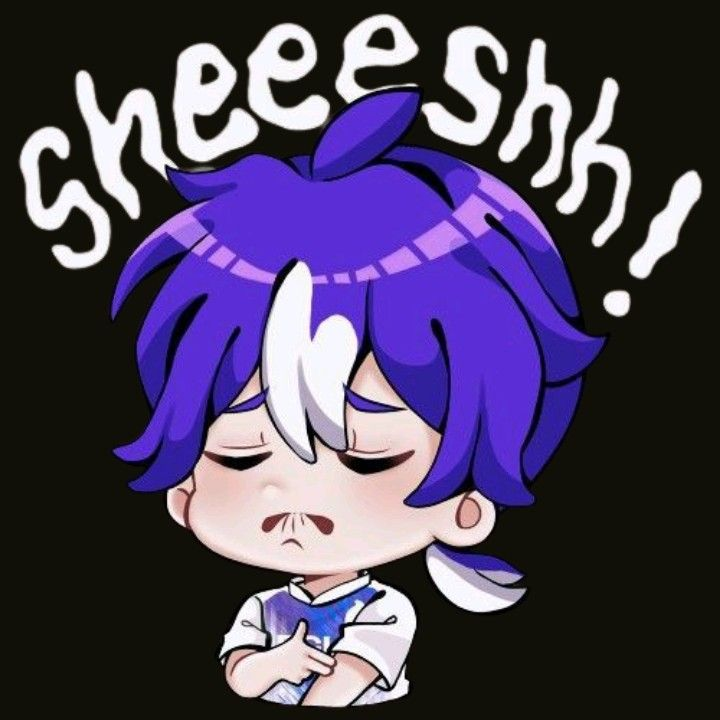
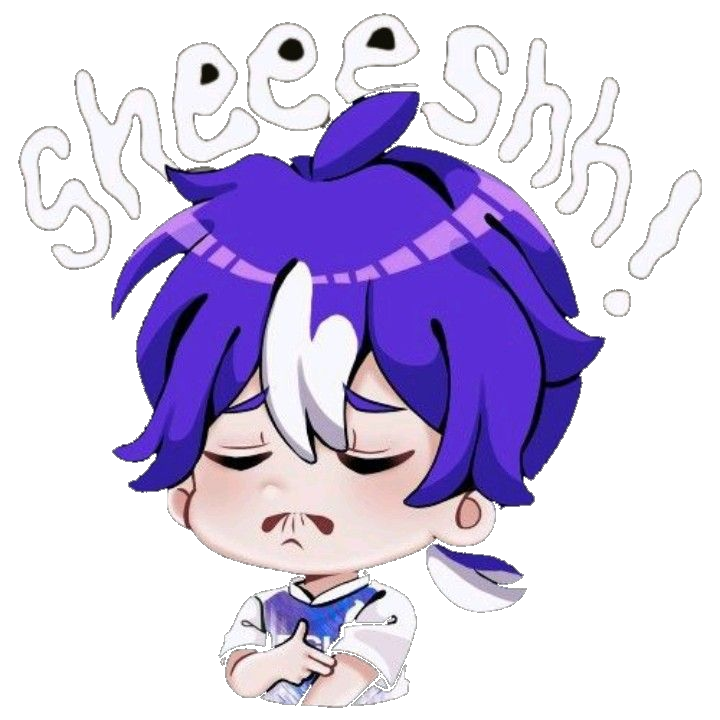
Add files via upload

diff --git a/src/main.jsx b/src/main.jsx
@@ -4,6 +4,7 @@ import './styles.css';
 import logo from './assets/logo.jfif';
 import avatar from './assets/avatar.jpg';
 import sheeeshhhEmote from './assets/sheeeshhh.png';
+import sheeeshhhSound from './assets/sheesh-mpl-echo-ph.mp3';
 import {dbList,dbInsert,dbUpdate,dbUpsert,dbDelete,supabaseConfig,supabase,checkSupabaseSetup} from './supabase';
 
 const DEFAULTS={admin:{name:'Bastaoang Jayson A',password:'webinternDEV'},hostPassword:'BSIT',userPassword:'CRT-NEUST-GSC'};
@@ -586,7 +587,12 @@ function Meeting({role,name,room,avatar,camera,mic,sharing,pinned,setCamera,setM
    }catch(e){console.error('Screen-share toggle failed:',e);resetScreenView();setToast?.(`Screen sharing could not start: ${e?.message || 'check browser permission.'}`);}
  };
  const playSheeeshhhSound=()=>{
-   try{const C=window.AudioContext||window.webkitAudioContext;if(!C)return;const ctx=new C();const osc=ctx.createOscillator();const gain=ctx.createGain();osc.type='triangle';osc.frequency.setValueAtTime(320,ctx.currentTime);osc.frequency.exponentialRampToValueAtTime(720,ctx.currentTime+.18);gain.gain.setValueAtTime(.0001,ctx.currentTime);gain.gain.exponentialRampToValueAtTime(.16,ctx.currentTime+.025);gain.gain.exponentialRampToValueAtTime(.0001,ctx.currentTime+.55);osc.connect(gain).connect(ctx.destination);osc.start();osc.stop(ctx.currentTime+.58);setTimeout(()=>ctx.close(),800)}catch{}
+   try{
+     const audio=new Audio(sheeeshhhSound);
+     audio.preload='auto';audio.volume=0.9;audio.currentTime=0;
+     const playPromise=audio.play();
+     if(playPromise?.catch) playPromise.catch(()=>{});
+   }catch{}
  };
  const playSlapSound=()=>{
    try{const C=window.AudioContext||window.webkitAudioContext;if(!C)return;const ctx=new C();const now=ctx.currentTime;const osc=ctx.createOscillator(),gain=ctx.createGain(),noise=ctx.createBufferSource(),ng=ctx.createGain();const b=ctx.createBuffer(1,Math.floor(ctx.sampleRate*.11),ctx.sampleRate),d=b.getChannelData(0);for(let i=0;i<d.length;i++)d[i]=(Math.random()*2-1)*(1-i/d.length);noise.buffer=b;osc.type='square';osc.frequency.setValueAtTime(165,now);osc.frequency.exponentialRampToValueAtTime(70,now+.13);gain.gain.setValueAtTime(.0001,now);gain.gain.exponentialRampToValueAtTime(.13,now+.008);gain.gain.exponentialRampToValueAtTime(.0001,now+.15);ng.gain.setValueAtTime(.18,now);ng.gain.exponentialRampToValueAtTime(.0001,now+.12);osc.connect(gain).connect(ctx.destination);noise.connect(ng).connect(ctx.destination);osc.start(now);noise.start(now);osc.stop(now+.16);noise.stop(now+.12);setTimeout(()=>ctx.close(),450)}catch{}
@@ -742,7 +748,9 @@ function ParticipantTile({item,avatar,localCameraEnabled,interactiveEffect,inter
  const startHold=(e)=>{if(!canInteract)return;if(e.pointerType==='mouse'&&e.button!==0)return;clearTimeout(holdTimer.current);holdTimer.current=setTimeout(()=>onHold?.(),420)};
  const stopHold=()=>clearTimeout(holdTimer.current);
  useEffect(()=>()=>clearTimeout(holdTimer.current),[]);
- return <div className={`thumb interactive-target ${interactiveEffect?'interactive-hit':''}`} onPointerDown={startHold} onPointerUp={stopHold} onPointerLeave={stopHold} onPointerCancel={stopHold} onContextMenu={e=>{e.preventDefault();if(canInteract)onHold?.()}}>{videoTrack?<><LiveVideo track={videoTrack} className="thumb-video" label={item.name}/><span className="thumb-name">{item.name}{item.role==='host'?' • Host':''}</span></>:<div className="participant-avatar-fallback"><img src={avatar} alt=""/><span>{item.name}{item.role==='host'?' • Host':''}</span></div>}{interactiveMenu&&canInteract&&<div className="interactive-emote-menu" onPointerDown={e=>e.stopPropagation()}><button type="button" className="interactive-emote-choice" onPointerUp={e=>{e.preventDefault();e.stopPropagation();onEmote?.('sheeeshhh')}} onClick={e=>{e.preventDefault();e.stopPropagation();onEmote?.('sheeeshhh')}}><img src={sheeeshhhEmote} alt="SHEEESHHH interactive emote"/><span>SHEEESHHH!</span></button><button type="button" className="interactive-emote-choice slap-choice" onPointerUp={e=>{e.preventDefault();e.stopPropagation();onEmote?.('slap')}} onClick={e=>{e.preventDefault();e.stopPropagation();onEmote?.('slap')}}><b aria-hidden="true">👋</b><span>SLAP</span></button><button type="button" className="interactive-emote-close" onClick={onCloseMenu} aria-label="Close interactive emote menu">×</button></div>}{interactiveEffect?.kind==='sheeeshhh'&&<div className="participant-emote-effect" aria-label={`${interactiveEffect.targetName} received SHEEESHHH`}><div className="emote-energy"/><div className="emote-text">SHEEESHHH!</div><img src={sheeeshhhEmote} alt=""/></div>}{interactiveEffect?.kind==='slap'&&<div className="participant-slap-effect" aria-label={`${interactiveEffect.targetName} received a slap`}><div className="slap-burst"/><div className="slap-hand">👋</div><div className="slap-impact">💥</div></div>}</div>
+ const sheeshEffect=interactiveEffect?.kind==='sheeeshhh'?<div className="participant-emote-effect" aria-label={`${interactiveEffect.targetName} received SHEEESHHH`}><div className="emote-energy"/><div className="emote-text">SHEEESHHH!</div><img src={sheeeshhhEmote} alt=""/></div>:null;
+ const slapEffect=interactiveEffect?.kind==='slap'?<div className="participant-slap-effect" aria-label={`${interactiveEffect.targetName} received a slap`}><div className="slap-burst"/><div className="slap-hand">👋</div><div className="slap-impact">💥</div></div>:null;
+ return <div className={`thumb interactive-target ${interactiveEffect?'interactive-hit':''}`} onPointerDown={startHold} onPointerUp={stopHold} onPointerLeave={stopHold} onPointerCancel={stopHold} onContextMenu={e=>{e.preventDefault();if(canInteract)onHold?.()}}>{videoTrack?<><LiveVideo track={videoTrack} className="thumb-video" label={item.name}/><span className="thumb-name">{item.name}{item.role==='host'?' • Host':''}</span>{sheeshEffect}{slapEffect}</>:<div className="participant-avatar-fallback"><img src={avatar} alt=""/><span>{item.name}{item.role==='host'?' • Host':''}</span>{sheeshEffect}{slapEffect}</div>}{interactiveMenu&&canInteract&&<div className="interactive-emote-menu" onPointerDown={e=>e.stopPropagation()}><button type="button" className="interactive-emote-choice" onPointerUp={e=>{e.preventDefault();e.stopPropagation();onEmote?.('sheeeshhh')}} onClick={e=>{e.preventDefault();e.stopPropagation();onEmote?.('sheeeshhh')}}><img src={sheeeshhhEmote} alt="SHEEESHHH interactive emote"/><span>SHEEESHHH!</span></button><button type="button" className="interactive-emote-choice slap-choice" onPointerUp={e=>{e.preventDefault();e.stopPropagation();onEmote?.('slap')}} onClick={e=>{e.preventDefault();e.stopPropagation();onEmote?.('slap')}}><b aria-hidden="true">👋</b><span>SLAP</span></button><button type="button" className="interactive-emote-close" onClick={onCloseMenu} aria-label="Close interactive emote menu">×</button></div>}</div>
 }
 
 createRoot(document.getElementById('root')).render(<App/>);

diff --git a/src/styles.css b/src/styles.css
@@ -362,3 +362,18 @@
 @keyframes slap-burst{0%{opacity:0;transform:scale(.2)}45%{opacity:1;transform:scale(4.2)}100%{opacity:0;transform:scale(7)}}
 @keyframes slap-target-shake{0%,100%{transform:translateX(0)}18%{transform:translateX(9px) rotate(.6deg)}35%{transform:translateX(-11px) rotate(-.6deg)}55%{transform:translateX(7px)}75%{transform:translateX(-4px)}}
 @media(max-width:700px){.interactive-emote-choice.slap-choice span{display:none}.interactive-emote-choice.slap-choice{min-width:0}.slap-hand{font-size:52px}.slap-impact{font-size:34px}}
+
+/* v1.7.4: transparent SHEEESHHH sticker + exact avatar anchor */
+.participant-avatar-fallback{position:relative;isolation:isolate}
+.participant-avatar-fallback .participant-emote-effect{position:absolute;left:29px;top:29px;width:142px;height:142px;transform:translate(-50%,-50%);z-index:90;display:grid;place-items:center;overflow:visible;pointer-events:none}
+.participant-avatar-fallback .participant-emote-effect img{width:132px;height:auto;max-height:142px;object-fit:contain;border-radius:0;background:transparent;mix-blend-mode:normal}
+.participant-avatar-fallback .participant-emote-effect .emote-energy{width:120px;aspect-ratio:1}
+.participant-avatar-fallback .participant-emote-effect .emote-text{top:-20px;font-size:18px;white-space:nowrap}
+/* Camera-on tiles remain centered on the participant tile. */
+.thumb-video~.participant-emote-effect{left:50%;top:50%;transform:translate(-50%,-50%)}
+@media(max-width:700px){
+ .participant-avatar-fallback .participant-emote-effect{left:22px;top:22px;width:112px;height:112px}
+ .participant-avatar-fallback .participant-emote-effect img{width:106px;max-height:112px}
+ .participant-avatar-fallback .participant-emote-effect .emote-energy{width:96px}
+ .participant-avatar-fallback .participant-emote-effect .emote-text{top:-15px;font-size:14px}
+}

diff --git a/README_v1.7.4_SHEEESHHH_SOUND_TRANSPARENT.md b/README_v1.7.4_SHEEESHHH_SOUND_TRANSPARENT.md
@@ -1,0 +1,14 @@
+# WebInternDev v1.7.4
+
+## SHEEESHHH Interactive Emote updates
+- Replaced the generated/synthesized SHEEESHHH sound with the provided `sheesh-mpl-echo-ph.mp3` asset.
+- Removed the connected dark/black background from `sheeeshhh.png` and saved it with transparency so the character behaves like an emoji/sticker.
+- For camera-off participant tiles, the effect is anchored to the participant avatar center rather than the middle of the whole tile.
+- For camera-on tiles, the effect remains centered on the participant video tile.
+- SHEEESHHH still includes its text, glow/energy and animation sequence.
+
+## Existing behavior retained
+- Long-press another participant to open Interactive Emotes.
+- You cannot target your own participant tile.
+- SHEEESHHH and SLAP remain separate interactive effects.
+- Normal React remains separate.
